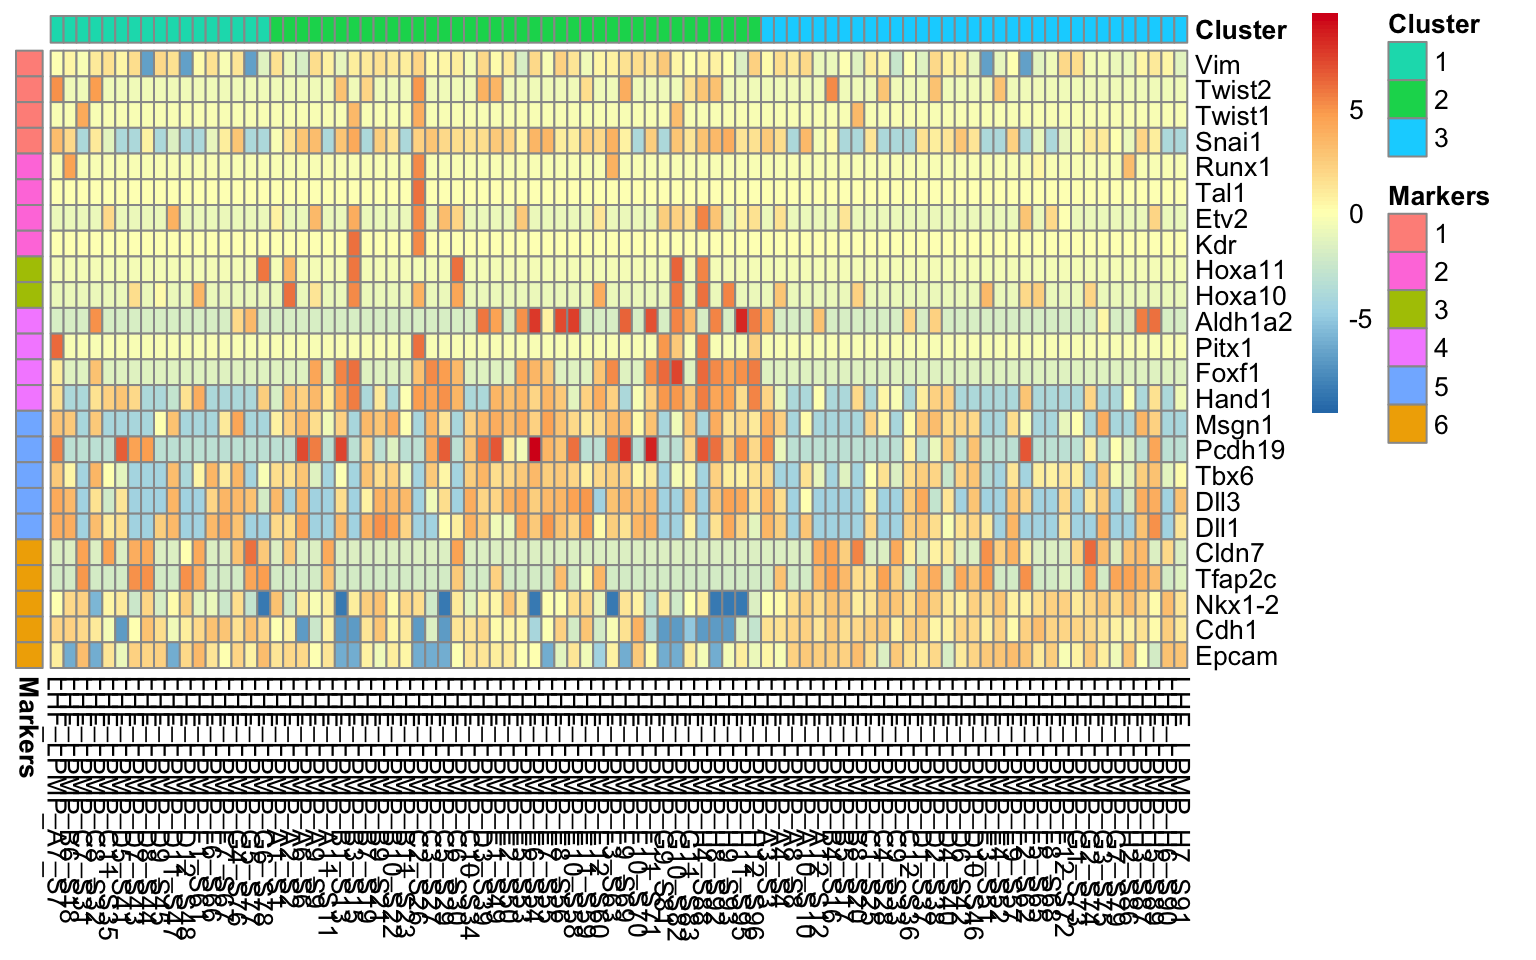
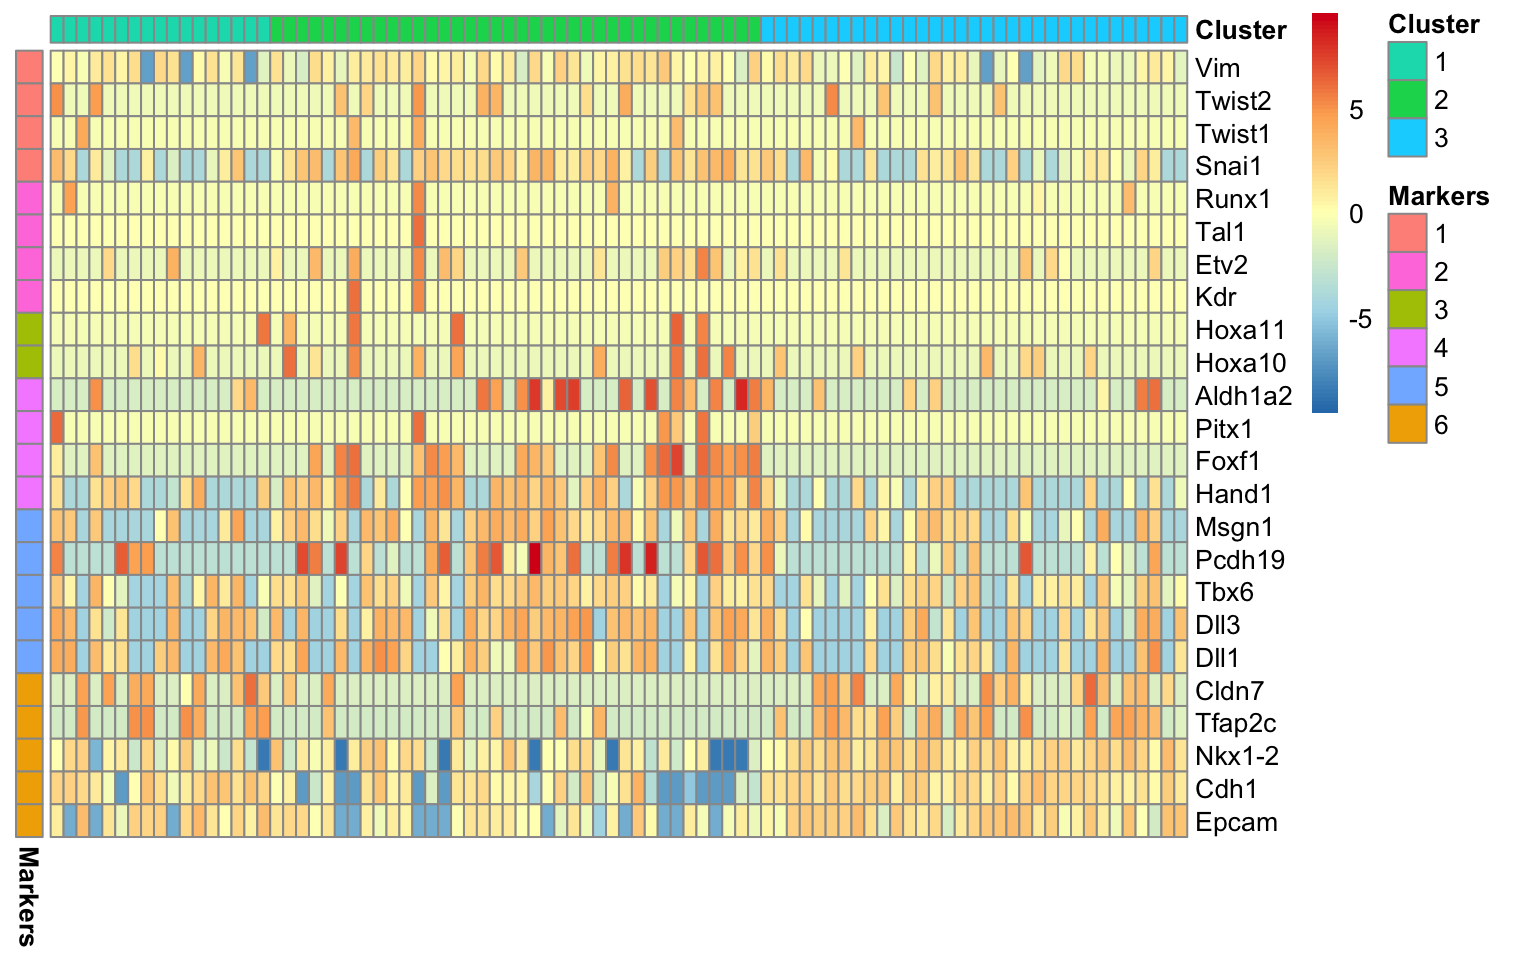
Build site.

diff --git a/docs/01-analysis.html b/docs/01-analysis.html
@@ -559,10 +559,10 @@ This reproducible <a href="http://rmarkdown.rstudio.com">R Markdown</a> analysis
 <div class="panel panel-default">
 <div class="panel-heading">
 <p class="panel-title">
-<a data-toggle="collapse" data-parent="#workflowr-checks" href="#strongRepositoryversionstrongahrefhttpsgithubcomjma1991LHFtree2a1937cb2430ad9d36d7383b8c02e2188dec9323targetblank2a1937ca"> <span class="glyphicon glyphicon-ok text-success" aria-hidden="true"></span> <strong>Repository version:</strong> <a href="https://github.com/jma1991/LHF/tree/2a1937cb2430ad9d36d7383b8c02e2188dec9323" target="_blank">2a1937c</a> </a>
+<a data-toggle="collapse" data-parent="#workflowr-checks" href="#strongRepositoryversionstrongahrefhttpsgithubcomjma1991LHFtree736607abc128da5fde48054edf9e963b54c97aadtargetblank736607aa"> <span class="glyphicon glyphicon-ok text-success" aria-hidden="true"></span> <strong>Repository version:</strong> <a href="https://github.com/jma1991/LHF/tree/736607abc128da5fde48054edf9e963b54c97aad" target="_blank">736607a</a> </a>
 </p>
 </div>
[2 lines of base64/hex data omitted]
 <div class="panel-body">
 <p>
 Great! You are using Git for version control. Tracking code development and connecting the code version to the results is critical for reproducibility. The version displayed above was the version of the Git repository at the time these results were generated. <br><br> Note that you need to be careful to ensure that all relevant files for the analysis have been committed to Git prior to generating the results (you can use <code>wflow_publish</code> or <code>wflow_git_commit</code>). workflowr only checks the R Markdown file, but you know if there are other scripts or data files that it depends on. Below is the status of the Git repository when the results were generated:
@@ -623,6 +623,40 @@ Message
 </tr>
 </thead>
 <tbody>
+<tr>
+<td>
+Rmd
+</td>
+<td>
+<a href="https://github.com/jma1991/LHF/blob/736607abc128da5fde48054edf9e963b54c97aad/analysis/01-analysis.Rmd" target="_blank">736607a</a>
+</td>
+<td>
+James Ashmore
+</td>
+<td>
+2020-02-19
+</td>
+<td>
+Commit analysis.
+</td>
+</tr>
+<tr>
+<td>
+html
+</td>
+<td>
+<a href="https://rawcdn.githack.com/jma1991/LHF/c7776898b5e79de996d67f9af953e25c0592ccdf/docs/01-analysis.html" target="_blank">c777689</a>
+</td>
+<td>
+James Ashmore
+</td>
+<td>
+2020-02-19
+</td>
+<td>
+Build site.
+</td>
+</tr>
 <tr>
 <td>
 html
@@ -778,7 +812,7 @@ pheatmap::pheatmap(
   cluster_cols = FALSE, 
   annotation_row = ann$row, 
   annotation_col = ann$col,
-  show_colnames = TRUE
+  show_colnames = FALSE
 )</code></pre>
 <p><img src="figure/01-analysis.Rmd/unnamed-chunk-4-1.png" width="768" style="display: block; margin: auto;" /></p>
 <p>
@@ -803,6 +837,17 @@ Date
 </tr>
 </thead>
 <tbody>
+<tr>
+<td>
+<a href="https://github.com/jma1991/LHF/blob/c7776898b5e79de996d67f9af953e25c0592ccdf/docs/figure/01-analysis.Rmd/unnamed-chunk-4-1.png" target="_blank">c777689</a>
+</td>
+<td>
+James Ashmore
+</td>
+<td>
+2020-02-19
+</td>
+</tr>
 <tr>
 <td>
 <a href="https://github.com/jma1991/LHF/blob/87c3554e4ee55bc723132822adbabc7712f1a198/docs/figure/01-analysis.Rmd/unnamed-chunk-4-1.png" target="_blank">87c3554</a>

diff --git a/docs/index.html b/docs/index.html
@@ -419,10 +419,10 @@ This reproducible <a href="http://rmarkdown.rstudio.com">R Markdown</a> analysis
 <div class="panel panel-default">
 <div class="panel-heading">
 <p class="panel-title">
-<a data-toggle="collapse" data-parent="#workflowr-checks" href="#strongRepositoryversionstrongahrefhttpsgithubcomjma1991LHFtree2a1937cb2430ad9d36d7383b8c02e2188dec9323targetblank2a1937ca"> <span class="glyphicon glyphicon-ok text-success" aria-hidden="true"></span> <strong>Repository version:</strong> <a href="https://github.com/jma1991/LHF/tree/2a1937cb2430ad9d36d7383b8c02e2188dec9323" target="_blank">2a1937c</a> </a>
+<a data-toggle="collapse" data-parent="#workflowr-checks" href="#strongRepositoryversionstrongahrefhttpsgithubcomjma1991LHFtree736607abc128da5fde48054edf9e963b54c97aadtargetblank736607aa"> <span class="glyphicon glyphicon-ok text-success" aria-hidden="true"></span> <strong>Repository version:</strong> <a href="https://github.com/jma1991/LHF/tree/736607abc128da5fde48054edf9e963b54c97aad" target="_blank">736607a</a> </a>
 </p>
 </div>
[2 lines of base64/hex data omitted]
 <div class="panel-body">
 <p>
 Great! You are using Git for version control. Tracking code development and connecting the code version to the results is critical for reproducibility. The version displayed above was the version of the Git repository at the time these results were generated. <br><br> Note that you need to be careful to ensure that all relevant files for the analysis have been committed to Git prior to generating the results (you can use <code>wflow_publish</code> or <code>wflow_git_commit</code>). workflowr only checks the R Markdown file, but you know if there are other scripts or data files that it depends on. Below is the status of the Git repository when the results were generated:
@@ -483,6 +483,23 @@ Message
 </tr>
 </thead>
 <tbody>
+<tr>
+<td>
+html
+</td>
+<td>
+<a href="https://rawcdn.githack.com/jma1991/LHF/c7776898b5e79de996d67f9af953e25c0592ccdf/docs/index.html" target="_blank">c777689</a>
+</td>
+<td>
+James Ashmore
+</td>
+<td>
+2020-02-19
+</td>
+<td>
+Build site.
+</td>
+</tr>
 <tr>
 <td>
 html
